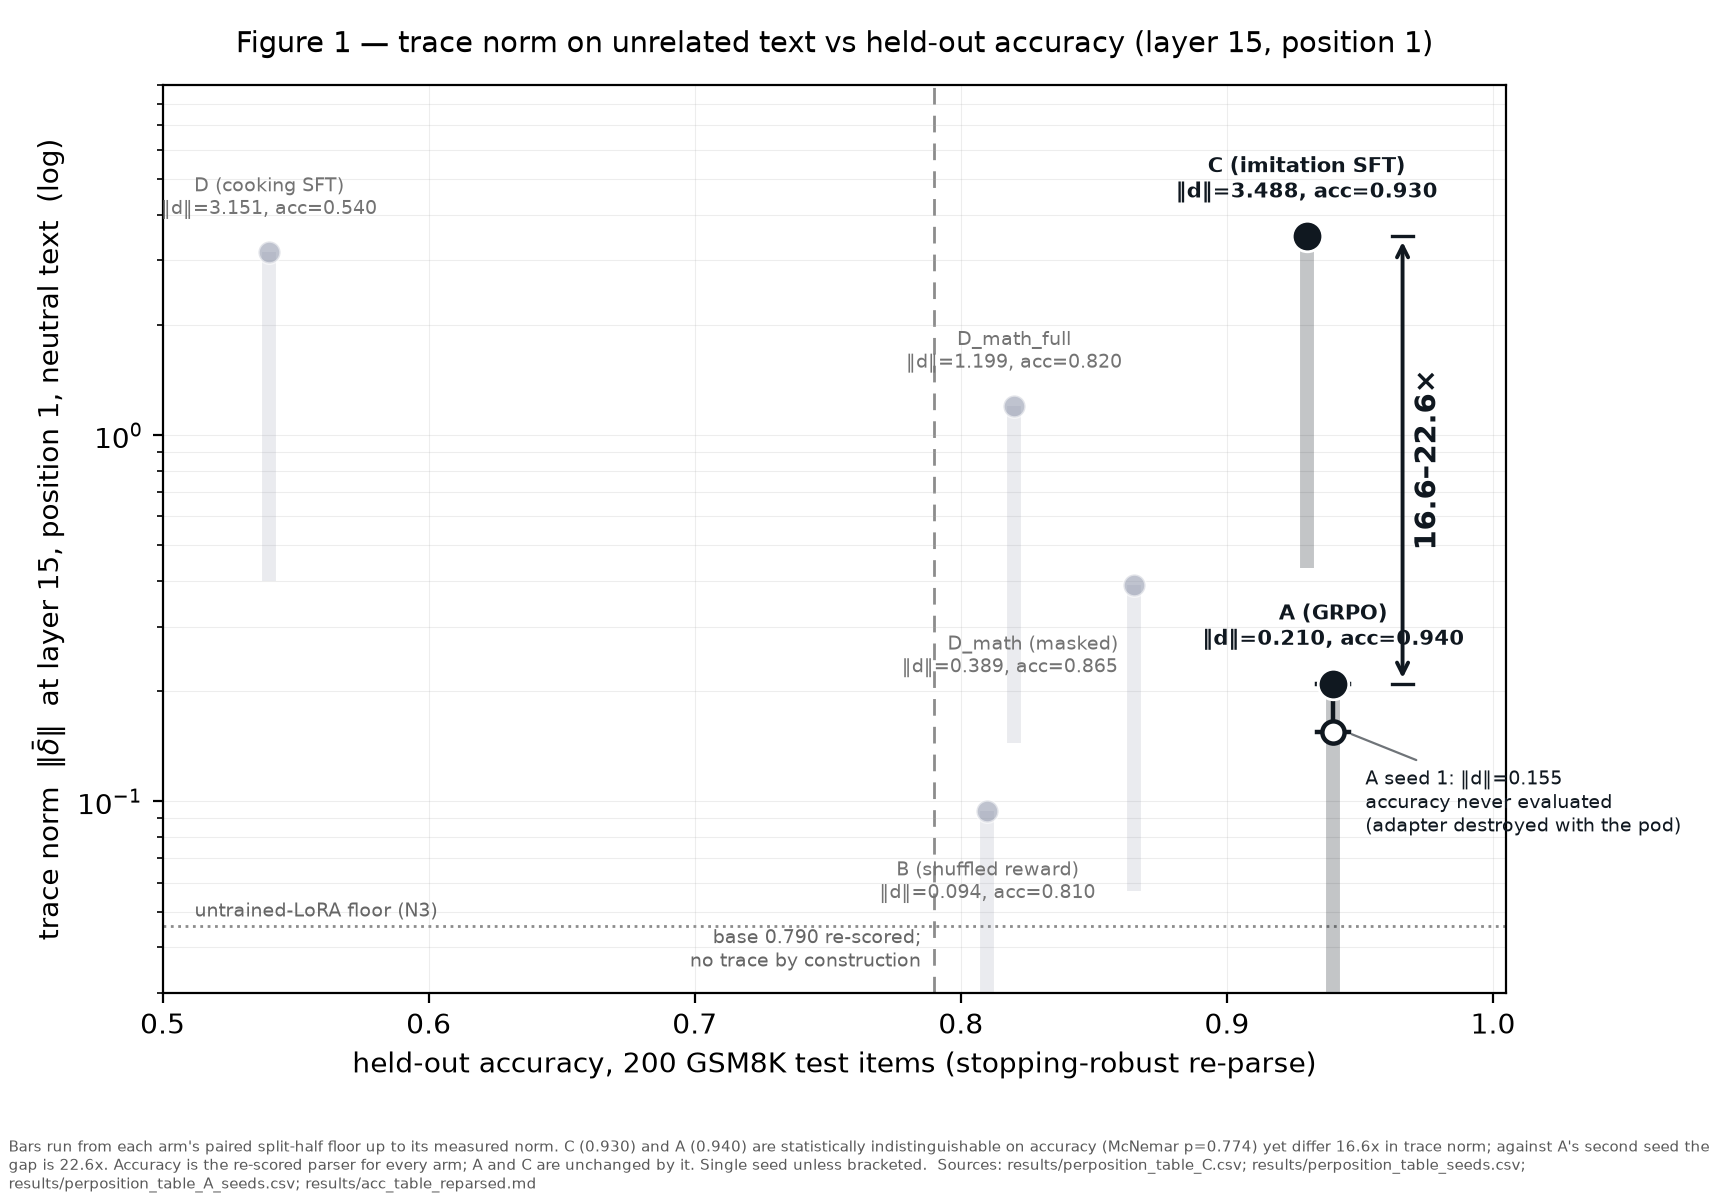
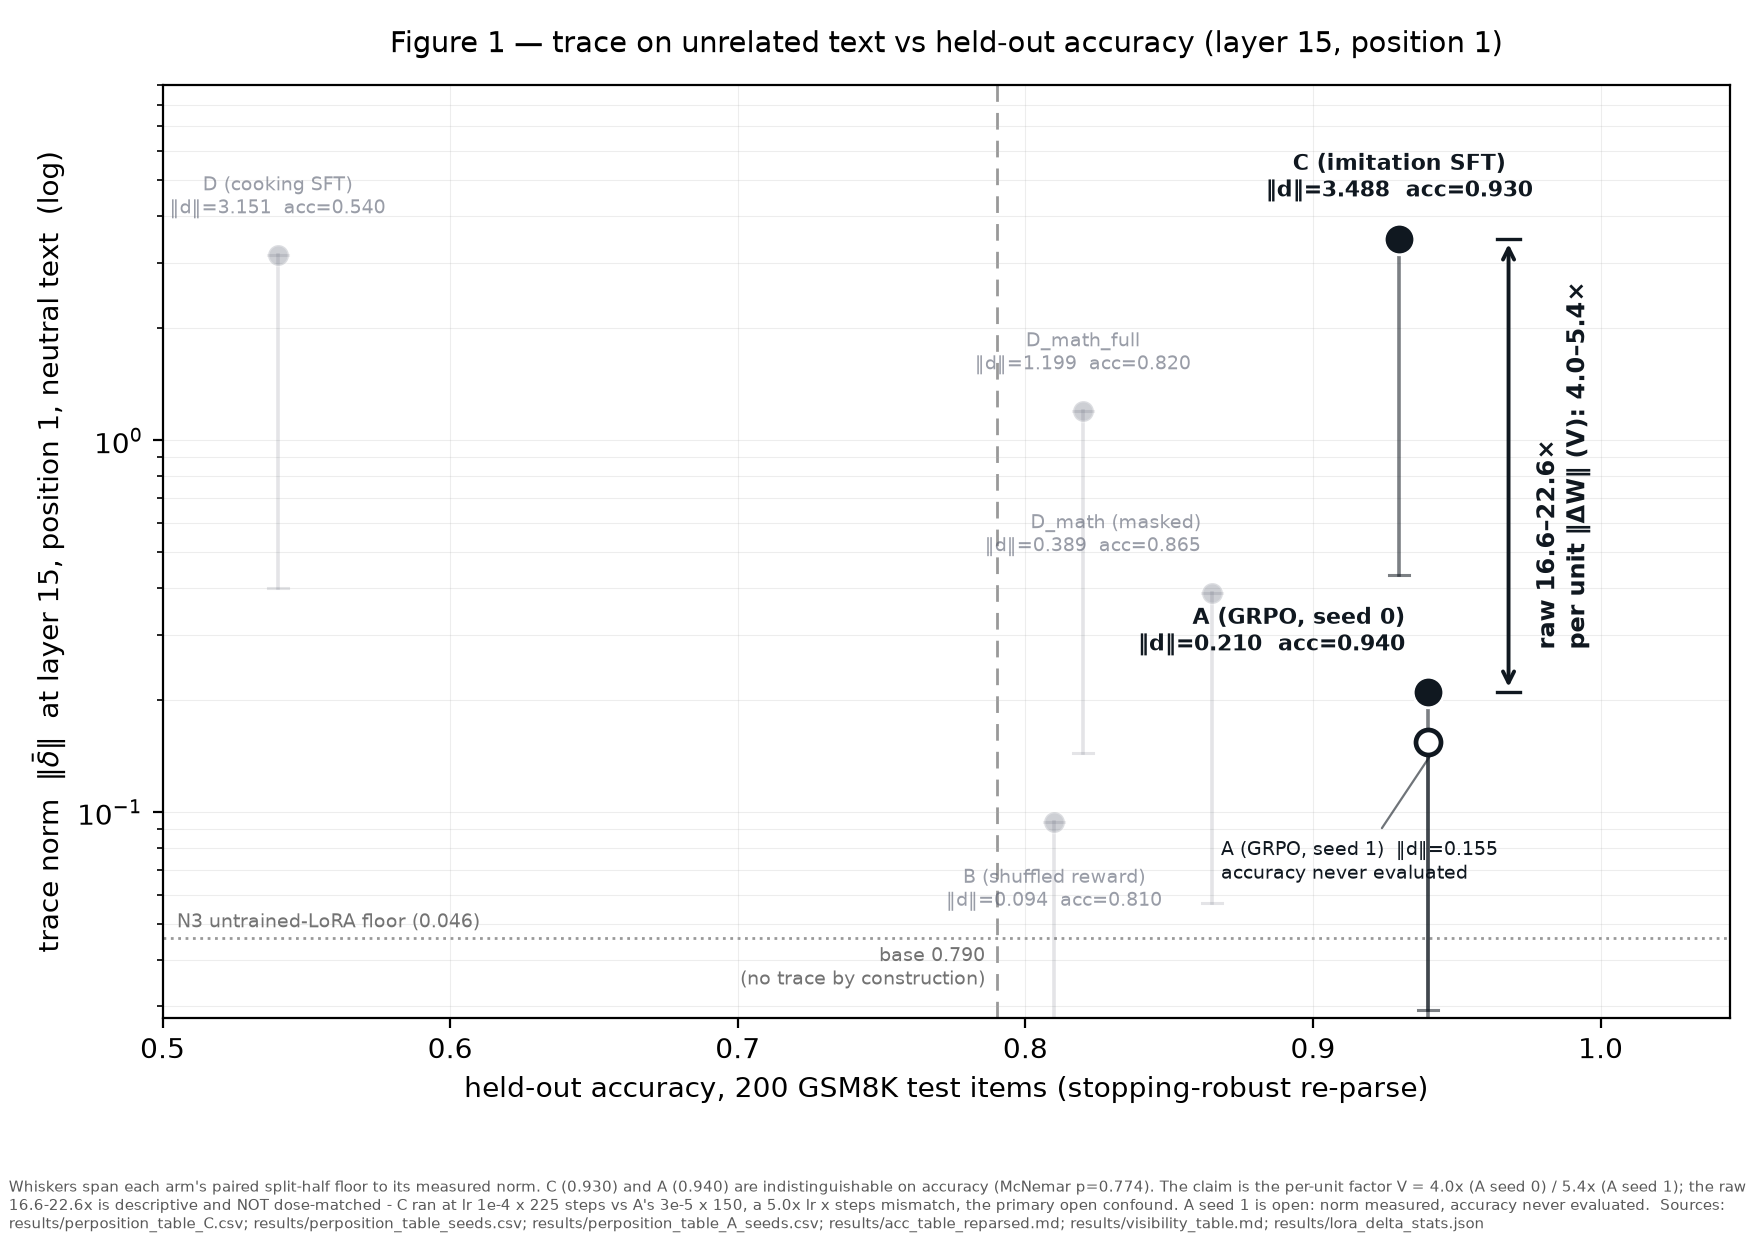
F1 item 6: Figure 1 to spec (30% opacity, split-half whiskers, N3 marked, raw + V ratios annotated); figure_sources.json updated

diff --git a/analysis/make_figures.py b/analysis/make_figures.py
@@ -59,7 +59,7 @@ def caption(ax_or_fig, fig: str, text: str):
 
 # ---------------------------------------------------------------- fig 1 (headline)
 def fig1():
-    """Trace norm at L15 p1 (log) vs re-scored held-out accuracy, one panel."""
+    """Trace norm at L15 p1 neutral (log) vs re-scored held-out accuracy."""
     f = "fig1_norm_vs_accuracy"
     norms = {}
     for rel in ("results/perposition_table_C.csv", "results/perposition_table_seeds.csv",
@@ -72,65 +72,71 @@ def fig1():
     for line in open(read("results/acc_table_reparsed.md")):
         m = re.match(r"\| (\w+) \| (\d+)/200 \| [\d.]+ \| (\d+)/200 \|", line)
         if m:
-            acc[m.group(1)] = int(m.group(3)) / 200      # re-scored
-    # arms with both coordinates
-    pts = [("C", "C (imitation SFT)", True), ("A", "A (GRPO)", True),
-           ("D", "D (cooking SFT)", False), ("D_math", "D_math (masked)", False),
-           ("D_math_full", "D_math_full", False), ("B", "B (shuffled reward)", False)]
-    fig, ax = plt.subplots(figsize=(8.6, 6.0))
-    DARK, LIGHT = "#101820", "#8c93a8"
-    # base: accuracy but no trace by construction
-    ax.axvline(acc["base"], color="0.55", lw=1, ls=(0, (6, 4)), zorder=1)
-    ax.text(acc["base"] - 0.005, 0.034, "base 0.790 re-scored;\nno trace by construction",
-            fontsize=7, color="0.4", ha="right", va="bottom")
-    # N3 untrained-LoRA floor
+            acc[m.group(1)] = int(m.group(3)) / 200
+    note(f, "results/visibility_table.md")
+    note(f, "results/lora_delta_stats.json")
+
+    DARK, FADE = "#101820", "#5b6172"
+    fig, ax = plt.subplots(figsize=(8.8, 6.2))
+    ax.axvline(acc["base"], color="0.6", lw=1, ls=(0, (6, 4)), zorder=1)
+    ax.text(acc["base"] - 0.004, 0.033, "base 0.790\n(no trace by construction)",
+            fontsize=7, color="0.45", ha="right", va="bottom")
     n3 = norms["N3"][0]
-    ax.axhline(n3, color="0.55", lw=1, ls=":", zorder=1)
-    ax.text(0.512, n3 * 1.06, "untrained-LoRA floor (N3)", fontsize=7, color="0.4")
-    for arm, label, dark in pts:
-        x, (y, floor) = acc[arm], norms[arm]
-        col, al, ms, z = (DARK, 1.0, 11, 5) if dark else (LIGHT, 0.55, 8, 3)
-        # split-half floor as a faint bar from the floor up to the measured norm
-        ax.plot([x, x], [floor, y], color=col, alpha=0.25 if dark else 0.18, lw=5, solid_capstyle="butt", zorder=z - 1)
-        ax.plot(x, y, "o", ms=ms, color=col, alpha=al, zorder=z,
+    ax.axhline(n3, color="0.6", lw=1, ls=":", zorder=1)
+    ax.text(0.505, n3 * 1.07, "N3 untrained-LoRA floor (0.046)", fontsize=7, color="0.45")
+
+    def draw(arm, label, x, y, floor, dark, dy=1.24, ha="center", xoff=0.0):
+        col = DARK if dark else FADE
+        al = 1.0 if dark else 0.30                      # everything else at 30 % opacity
+        ax.plot([x, x], [floor, y], color=col, alpha=al * 0.55, lw=1.3, zorder=2)   # faint whisker
+        for yv in (floor, y):
+            ax.plot([x - 0.0035, x + 0.0035], [yv, yv], color=col, alpha=al * 0.55, lw=1.1, zorder=2)
+        ax.plot(x, y, "o", ms=11 if dark else 7.5, color=col, alpha=al, zorder=5 if dark else 3,
                 markeredgecolor="white", markeredgewidth=1.0)
-        dy = 0.74 if arm in ("D_math", "B") else 1.22
-        ha = "right" if arm == "D_math" else "center"
-        xoff = -0.006 if arm == "D_math" else 0.0
-        ax.annotate(f"{label}\n‖d‖={y:.3f}, acc={x:.3f}", (x + xoff, y * dy), fontsize=7.6 if dark else 6.8,
-                    color=col if dark else "0.45", ha=ha,
+        ax.annotate(f"{label}\n‖d‖={y:.3f}  acc={x:.3f}", (x + xoff, y * dy), fontsize=7.8 if dark else 6.9,
+                    color=col, alpha=1.0 if dark else 0.62, ha=ha,
                     va="bottom" if dy > 1 else "top", fontweight="bold" if dark else "normal")
-    # A's second seed: norm measured, accuracy never evaluated (adapter destroyed)
-    a_s0, a_s1 = norms["A"][0], norms["A_seed1"][0]
+
+    for arm, label, dy, ha, xoff in (("D", "D (cooking SFT)", 1.24, "center", 0.0),
+                                     ("D_math_full", "D_math_full", 1.24, "center", 0.0),
+                                     ("D_math", "D_math (masked)", 1.24, "right", -0.004),
+                                     ("B", "B (shuffled reward)", 0.76, "center", 0.0)):
+        y, fl = norms[arm]
+        draw(arm, label, acc[arm], y, fl, False, dy, ha, xoff)
+    for arm, label, ha, xoff in (("C", "C (imitation SFT)", "center", 0.0),
+                                 ("A", "A (GRPO, seed 0)", "right", -0.008)):
+        y, fl = norms[arm]
+        draw(arm, label, acc[arm], y, fl, True, 1.24, ha, xoff)
+    # A seed 1: norm measured, accuracy never evaluated
+    ya, fa = norms["A_seed1"]
     xa = acc["A"]
-    ax.plot([xa, xa], [a_s1, a_s0], color=DARK, lw=1.6, zorder=4)
-    for yv in (a_s1, a_s0):
-        ax.plot([xa - 0.006, xa + 0.006], [yv, yv], color=DARK, lw=1.6, zorder=4)
-    ax.plot(xa, a_s1, "o", ms=8, mfc="white", mec=DARK, mew=1.6, zorder=5)
-    ax.annotate("A seed 1: ‖d‖=0.155\naccuracy never evaluated\n(adapter destroyed with the pod)",
-                xy=(xa + 0.005, a_s1), xytext=(0.952, a_s1 * 0.80), fontsize=7, color=DARK,
-                ha="left", va="top", arrowprops=dict(arrowstyle="-", color=DARK, lw=0.8, alpha=0.6))
-    # the headline ratio bracket, C vs A's seed range
+    ax.plot([xa, xa], [fa, ya], color=DARK, alpha=0.55, lw=1.3, zorder=2)
+    ax.plot(xa, ya, "o", ms=9, mfc="white", mec=DARK, mew=1.7, zorder=5)
+    ax.annotate("A (GRPO, seed 1)  ‖d‖=0.155\naccuracy never evaluated", xy=(xa + 0.004, ya),
+                xytext=(0.868, ya * 0.55), fontsize=7, color=DARK, ha="left", va="top",
+                arrowprops=dict(arrowstyle="-", color=DARK, lw=0.8, alpha=0.6))
+    # C -> A gap: raw ratio and V ratio
     cy = norms["C"][0]
-    xb = 0.966
-    ax.annotate("", xy=(xb, cy), xytext=(xb, a_s0),
-                arrowprops=dict(arrowstyle="<->", color=DARK, lw=1.4))
-    ax.text(xb + 0.004, (cy * a_s0) ** 0.5, "16.6–22.6×", fontsize=10.5, fontweight="bold",
-            color=DARK, ha="left", va="center", rotation=90)
-    for yv in (cy, a_s0):
+    xb = 0.968
+    ax.annotate("", xy=(xb, cy), xytext=(xb, norms["A"][0]), arrowprops=dict(arrowstyle="<->", color=DARK, lw=1.4))
+    for yv in (cy, norms["A"][0]):
         ax.plot([xb - 0.004, xb + 0.004], [yv, yv], color=DARK, lw=1.2)
+    ax.text(xb + 0.007, (cy * norms["A"][0]) ** 0.5,
+            "raw 16.6–22.6×\nper unit ‖ΔW‖ (V): 4.0–5.4×", fontsize=8.5, fontweight="bold",
+            color=DARK, ha="left", va="center", rotation=90, linespacing=1.4)
     ax.set_yscale("log")
     ax.set_xlabel("held-out accuracy, 200 GSM8K test items (stopping-robust re-parse)")
     ax.set_ylabel(r"trace norm  $\|\bar\delta\|$  at layer 15, position 1, neutral text  (log)")
-    ax.set_xlim(0.50, 1.005)
-    ax.set_ylim(0.03, 9)
+    ax.set_xlim(0.50, 1.045)
+    ax.set_ylim(0.028, 9)
     ax.grid(alpha=0.22, which="both", lw=0.4)
-    ax.set_title("Figure 1 — trace norm on unrelated text vs held-out accuracy (layer 15, position 1)",
+    ax.set_title("Figure 1 — trace on unrelated text vs held-out accuracy (layer 15, position 1)",
                  fontsize=10.5, pad=12)
-    fig.tight_layout(rect=(0, 0.075, 1, 1))
-    caption(fig, f, "Bars run from each arm's paired split-half floor up to its measured norm. C (0.930) and A (0.940) are "
-                    "statistically indistinguishable on accuracy (McNemar p=0.774) yet differ 16.6x in trace norm; against A's "
-                    "second seed the gap is 22.6x. Accuracy is the re-scored parser for every arm; A and C are unchanged by it. Single seed unless bracketed.")
+    fig.tight_layout(rect=(0, 0.085, 1, 1))
+    caption(fig, f, "Whiskers span each arm's paired split-half floor to its measured norm. C (0.930) and A (0.940) are "
+                    "indistinguishable on accuracy (McNemar p=0.774). The claim is the per-unit factor V = 4.0x (A seed 0) / 5.4x "
+                    "(A seed 1); the raw 16.6-22.6x is descriptive and NOT dose-matched - C ran at lr 1e-4 x 225 steps vs A's "
+                    "3e-5 x 150, a 5.0x lr x steps mismatch, the primary open confound. A seed 1 is open: norm measured, accuracy never evaluated.")
     fig.savefig(FIGS / f"{f}.png", dpi=200)
     plt.close(fig)
     print("wrote figs/" + f + ".png")
